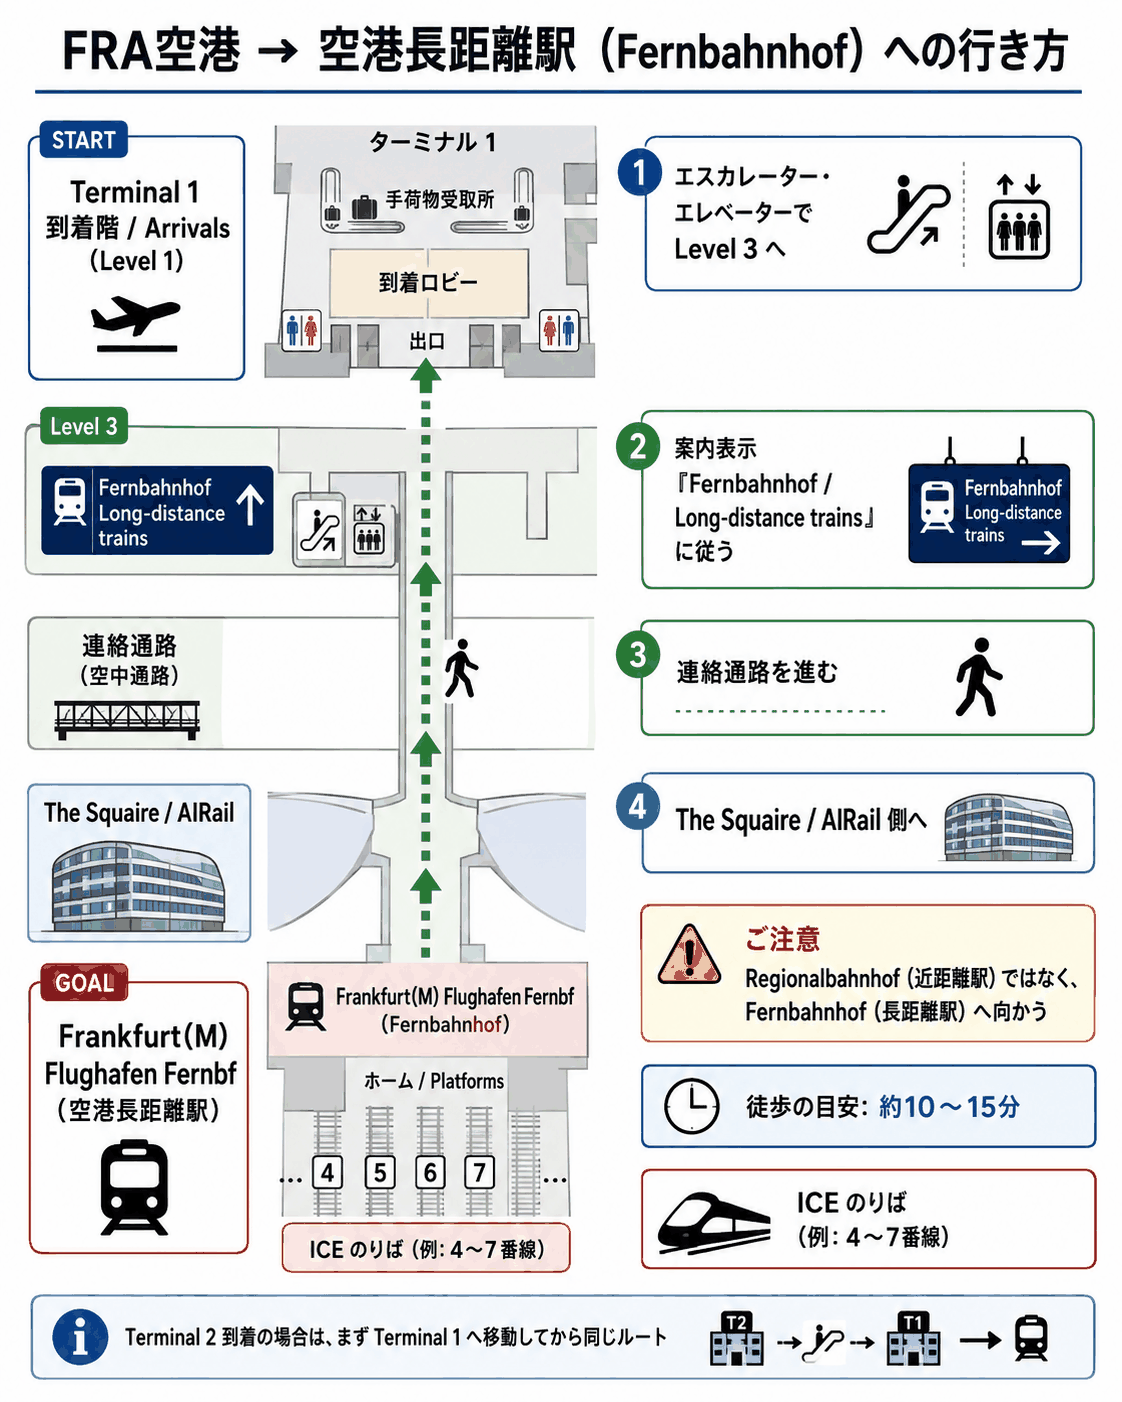
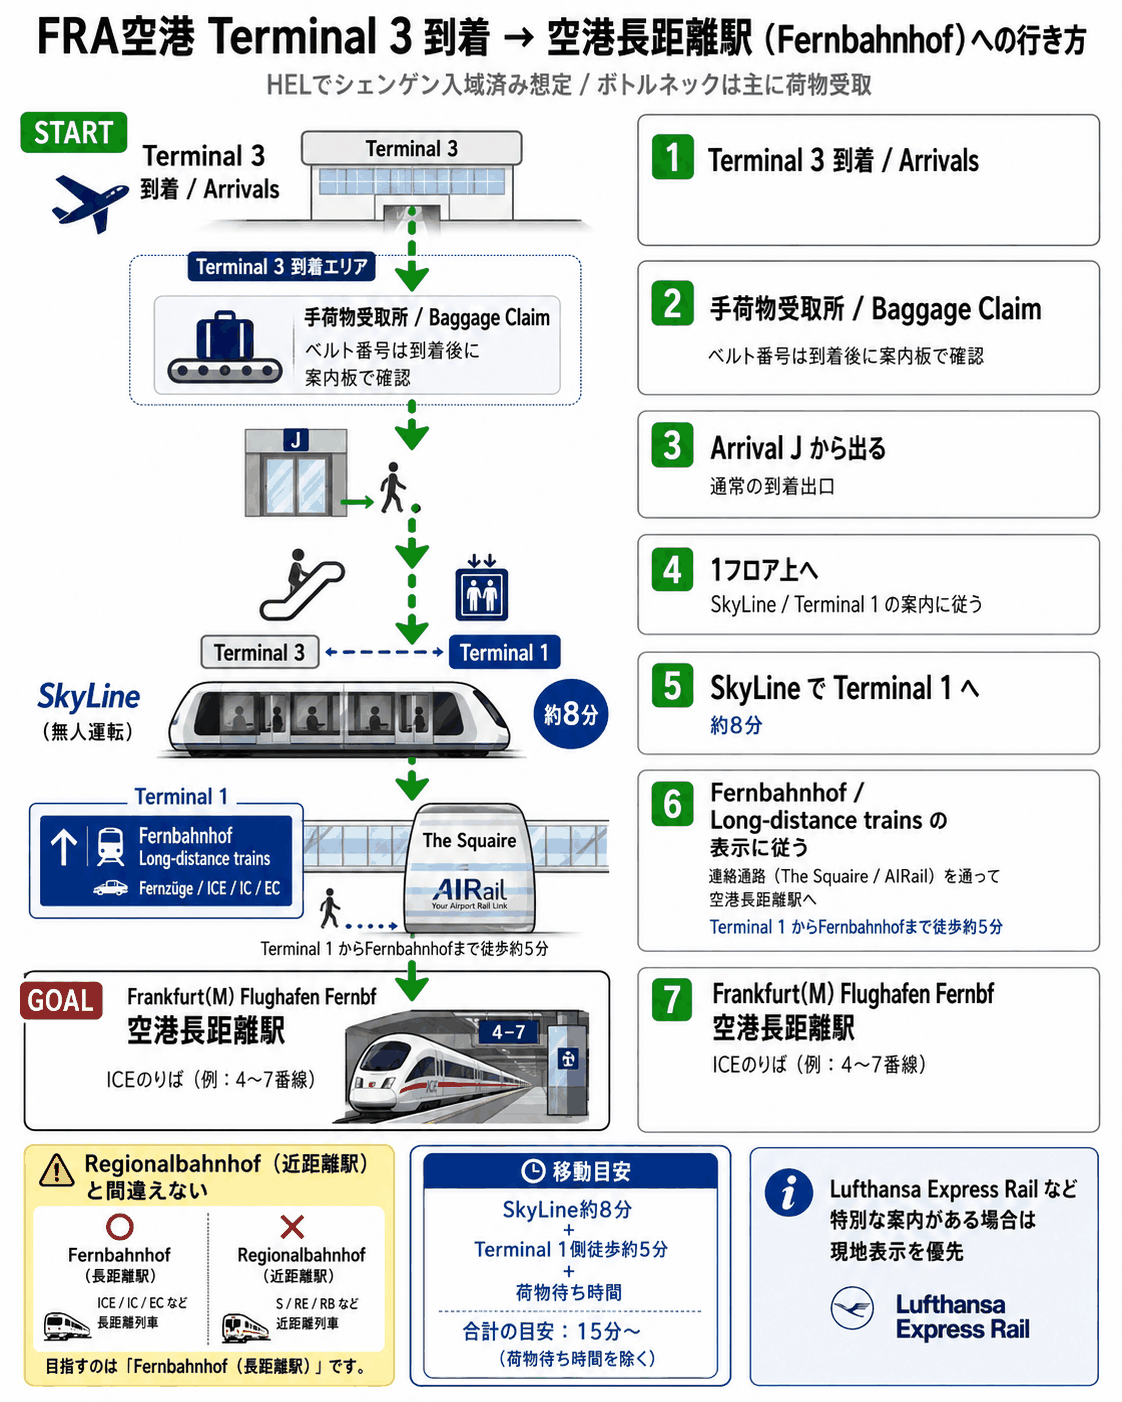
Replace the route diagram with one that starts at Terminal 3
ユーザーが図を描き直した。到着（Terminal 3）から長距離駅まで通しで1枚になった
ので、図を継ぐための言い足しが要らなくなった。

図が持つようになったこと：手荷物受取所 → Arrival J → 1つ上のフロア → SkyLine
（約8分）→ Terminal 1 → 徒歩約5分 → 長距離駅（ICEのりば 4〜7番線）。
Regionalbahnhofとの取り違えも図の中で対比されている。

- 説明は、図が言っていないことだけに絞った。SkyLineの運行時間（4:00〜23:00・
  2〜3分間隔、時間外はシャトルバス）と、原寸で開けること
- **所要は図の目安として書く。** SkyLineの約8分と合計15分〜は空港公式には出て
  いない。公式で読めたのは運行時間と間隔まで
- 「乗る便の判断」の90分にも、荷物待ちを除く15分〜を図の出どころ付きで入れた
- 前の図にあったTerminal 2の脚注は消えたので、それを打ち消す一文も落とした
- 検査の理由書きを、差し替えの経緯へ更新（図とターミナル・SkyLineの記述を対で見る
  ことは変えない）

PNGは128色で474KB（元は1.5MB）。寸法は前と同じ1122x1402。

diff --git a/202609_HumanoidSummitEurope/desk_print.html b/202609_HumanoidSummitEurope/desk_print.html
@@ -1083,7 +1083,7 @@ body.desk-copy .desk-print-trigger{display:flex;gap:5px;flex-shrink:0}
         <div class="action"><div class="row-time">9:20</div><div class="action-body"><span class="flight-mark" role="img" aria-label="フライト"></span><strong>FRA 着</strong>
           <div class="sub">荷物受取・税関</div><details open class="fold"><summary>朝食の調達</summary><div class="fold-body">入国審査はHELで完了。荷物受取・税関後、Terminal 3の<a href="https://www.frankfurt-airport.com/en/locations/b/bread-and-bite/bread-and-bite.html" target="_blank" rel="noopener">Bread &amp; Bite</a>（Area J・Level 1／6:00〜22:00）などでICE車内用のパン／サンドイッチを購入し、SkyLineでTerminal 1の長距離駅へ</div></details></div></div>
         <div class="action"><div class="row-time">10:51目安</div><div class="action-body"><span class="mode-icon mode-icon-train" role="img" aria-label="鉄道"><svg viewBox="0 0 24 24" fill="none" stroke="currentColor" stroke-width="1.7" stroke-linecap="round" stroke-linejoin="round"><rect x="5" y="3" width="14" height="13" rx="3"/><path d="M5 10h14"/><circle cx="9" cy="13" r="1"/><circle cx="15" cy="13" r="1"/><path d="M8 16l-2 4m10-4 2 4"/></svg></span><strong>Frankfurt空港 長距離駅（Fernbf）発 → Stuttgart Hbf</strong>（1時間20分）
-          <div class="sub"><strong>ICE 515</strong>・直通</div><details open class="fold"><summary>乗る便の判断</summary><div class="fold-body">9:20着から約90分あり、通常ならパン購入を含めて10:51発を目指せる。ただしFinnairはTerminal 3着で、長距離駅のあるTerminal 1へSkyLineで移る分が加わる（所要は未確認）。荷物受取等に時間がかかった場合は次の直通ICEに切り替える。乗換ありの便より直通を優先</div></details><details open class="fold"><summary>長距離駅への行き方</summary><div class="fold-body"><a class="route-map-link" href="fra_fernbahnhof_route.png" target="_blank" rel="noopener"><img class="route-map" src="fra_fernbahnhof_route.png" width="1122" height="1402" loading="eager" alt="FRA Terminal 1の到着階（Level 1）からLevel 3へ上がり、Fernbahnhof / Long-distance trainsの案内表示に従って連絡通路をThe Squaire / AIRail側へ進み、空港長距離駅のホームへ着く経路図"></a><div>FinnairはTerminal 3。長距離駅はTerminal 1側なので、無料のSkyLine（4:00〜23:00・2〜3分間隔、時間外はシャトルバス）でTerminal 1へ移ってから図の経路に入る。徒歩の目安は約10〜15分で、図をタップすると原寸で開く。案内表示は Fernbahnhof（長距離駅）で、Regionalbahnhof（近距離駅）ではない</div><div>図はTerminal 1到着から描いたもので、脚注のTerminal 2にはもう航空会社がいない（Terminal 2の便はTerminal 3へ移った）。SkyLineの所要時間は未確認。ターミナルとSkyLineは<a href="https://www.frankfurt-airport.com/en/at-the-airport/orientation.html" target="_blank" rel="noopener">空港公式</a>で確認（2026-08-30 閲覧）。<a href="https://map.frankfurt-airport.com/?poi=fernbahnhof" target="_blank" rel="noopener">構内マップ</a>は現在地から辿れる</div></div></details></div></div>
+          <div class="sub"><strong>ICE 515</strong>・直通</div><details open class="fold"><summary>乗る便の判断</summary><div class="fold-body">9:20着から約90分あり、通常ならパン購入を含めて10:51発を目指せる。ただしFinnairはTerminal 3着で、長距離駅のあるTerminal 1への移動が加わる。荷物待ちを除く目安は15分〜（図による）。荷物受取等に時間がかかった場合は次の直通ICEに切り替える。乗換ありの便より直通を優先</div></details><details open class="fold"><summary>長距離駅への行き方</summary><div class="fold-body"><a class="route-map-link" href="fra_fernbahnhof_route.png" target="_blank" rel="noopener"><img class="route-map" src="fra_fernbahnhof_route.png" width="1122" height="1402" loading="eager" alt="FRA Terminal 3の到着から手荷物受取所、Arrival J、1つ上のフロアのSkyLineでTerminal 1へ移り、Fernbahnhof / Long-distance trainsの表示に従って連絡通路を進み、空港長距離駅のホーム（4〜7番線）へ着く経路図"></a><div>FinnairはTerminal 3着。荷物を受け取ってArrival Jから出て、1つ上のフロアからSkyLine（無料・4:00〜23:00・2〜3分間隔、時間外はシャトルバス）でTerminal 1へ。あとは Fernbahnhof / Long-distance trains の表示に従う。Regionalbahnhof（近距離駅）ではない。図をタップすると原寸で開く</div><div>SkyLineの所要は空港公式に出ていない。図の約8分と合計15分〜は図の目安として読む。ターミナルの割り当てと運行時間は<a href="https://www.frankfurt-airport.com/en/at-the-airport/orientation.html" target="_blank" rel="noopener">空港公式</a>で確認（2026-08-30 閲覧）。<a href="https://map.frankfurt-airport.com/?poi=fernbahnhof" target="_blank" rel="noopener">構内マップ</a>は現在地から辿れる</div></div></details></div></div>
         <div class="action"><div class="row-time">12:11</div><div class="action-body"><span class="mode-icon mode-icon-train" role="img" aria-label="鉄道"><svg viewBox="0 0 24 24" fill="none" stroke="currentColor" stroke-width="1.7" stroke-linecap="round" stroke-linejoin="round"><rect x="5" y="3" width="14" height="13" rx="3"/><path d="M5 10h14"/><circle cx="9" cy="13" r="1"/><circle cx="15" cy="13" r="1"/><path d="M8 16l-2 4m10-4 2 4"/></svg></span><strong><a class="place" href="https://www.google.com/maps/search/?api=1&amp;query=Stuttgart+Hauptbahnhof" target="_blank" rel="noopener">Stuttgart Hbf</a> 着</strong>
           <div class="sub"><span class="mode-icon mode-icon-car" role="img" aria-label="タクシー"><svg viewBox="0 0 24 24" fill="none" stroke="currentColor" stroke-width="1.7" stroke-linecap="round" stroke-linejoin="round"><path d="M5 17h14M4 17v-4l2-5h12l2 5v4M4 17v2h2v-2m12 0v2h2v-2M6 13h12"/><circle cx="8" cy="15" r=".8"/><circle cx="16" cy="15" r=".8"/></svg></span>タクシーでホテルへ（約1.5km・€5〜10・現金払い）</div>
           <details open class="fold"><summary>駅からホテルへの行き方</summary><div class="fold-body"><strong>① タクシー（第一候補）：</strong>駅構内の案内に従い <a class="place" href="https://www.google.com/maps/search/?api=1&amp;query=Taxi+Stuttgart+Hauptbahnhof+Arnulf-Klett-Platz" target="_blank" rel="noopener">Arnulf-Klett-Platz</a> 側の乗り場から。運転手へ “Zum Maritim Hotel Stuttgart, bitte.” 必要なら住所 <strong>Seidenstraße 34</strong> を見せる。€10札を含む€20程度を用意。<br>

diff --git a/202609_HumanoidSummitEurope/index.html b/202609_HumanoidSummitEurope/index.html
@@ -202,7 +202,7 @@
         <div class="action"><div class="row-time">9:20</div><div class="action-body"><span class="flight-mark" role="img" aria-label="フライト"></span><strong>FRA 着</strong>
           <div class="sub">荷物受取・税関</div><details class="fold"><summary>朝食の調達</summary><div class="fold-body">入国審査はHELで完了。荷物受取・税関後、Terminal 3の<a href="https://www.frankfurt-airport.com/en/locations/b/bread-and-bite/bread-and-bite.html" target="_blank" rel="noopener">Bread &amp; Bite</a>（Area J・Level 1／6:00〜22:00）などでICE車内用のパン／サンドイッチを購入し、SkyLineでTerminal 1の長距離駅へ</div></details></div></div>
         <div class="action"><div class="row-time">10:51目安</div><div class="action-body"><span class="mode-icon mode-icon-train" role="img" aria-label="鉄道"><svg viewBox="0 0 24 24" fill="none" stroke="currentColor" stroke-width="1.7" stroke-linecap="round" stroke-linejoin="round"><rect x="5" y="3" width="14" height="13" rx="3"/><path d="M5 10h14"/><circle cx="9" cy="13" r="1"/><circle cx="15" cy="13" r="1"/><path d="M8 16l-2 4m10-4 2 4"/></svg></span><strong>Frankfurt空港 長距離駅（Fernbf）発 → Stuttgart Hbf</strong>（1時間20分）
-          <div class="sub"><strong>ICE 515</strong>・直通</div><details class="fold"><summary>乗る便の判断</summary><div class="fold-body">9:20着から約90分あり、通常ならパン購入を含めて10:51発を目指せる。ただしFinnairはTerminal 3着で、長距離駅のあるTerminal 1へSkyLineで移る分が加わる（所要は未確認）。荷物受取等に時間がかかった場合は次の直通ICEに切り替える。乗換ありの便より直通を優先</div></details><details class="fold"><summary>長距離駅への行き方</summary><div class="fold-body"><a class="route-map-link" href="fra_fernbahnhof_route.png" target="_blank" rel="noopener"><img class="route-map" src="fra_fernbahnhof_route.png" width="1122" height="1402" loading="eager" alt="FRA Terminal 1の到着階（Level 1）からLevel 3へ上がり、Fernbahnhof / Long-distance trainsの案内表示に従って連絡通路をThe Squaire / AIRail側へ進み、空港長距離駅のホームへ着く経路図"></a><div>FinnairはTerminal 3。長距離駅はTerminal 1側なので、無料のSkyLine（4:00〜23:00・2〜3分間隔、時間外はシャトルバス）でTerminal 1へ移ってから図の経路に入る。徒歩の目安は約10〜15分で、図をタップすると原寸で開く。案内表示は Fernbahnhof（長距離駅）で、Regionalbahnhof（近距離駅）ではない</div><div>図はTerminal 1到着から描いたもので、脚注のTerminal 2にはもう航空会社がいない（Terminal 2の便はTerminal 3へ移った）。SkyLineの所要時間は未確認。ターミナルとSkyLineは<a href="https://www.frankfurt-airport.com/en/at-the-airport/orientation.html" target="_blank" rel="noopener">空港公式</a>で確認（2026-08-30 閲覧）。<a href="https://map.frankfurt-airport.com/?poi=fernbahnhof" target="_blank" rel="noopener">構内マップ</a>は現在地から辿れる</div></div></details></div></div>
+          <div class="sub"><strong>ICE 515</strong>・直通</div><details class="fold"><summary>乗る便の判断</summary><div class="fold-body">9:20着から約90分あり、通常ならパン購入を含めて10:51発を目指せる。ただしFinnairはTerminal 3着で、長距離駅のあるTerminal 1への移動が加わる。荷物待ちを除く目安は15分〜（図による）。荷物受取等に時間がかかった場合は次の直通ICEに切り替える。乗換ありの便より直通を優先</div></details><details class="fold"><summary>長距離駅への行き方</summary><div class="fold-body"><a class="route-map-link" href="fra_fernbahnhof_route.png" target="_blank" rel="noopener"><img class="route-map" src="fra_fernbahnhof_route.png" width="1122" height="1402" loading="eager" alt="FRA Terminal 3の到着から手荷物受取所、Arrival J、1つ上のフロアのSkyLineでTerminal 1へ移り、Fernbahnhof / Long-distance trainsの表示に従って連絡通路を進み、空港長距離駅のホーム（4〜7番線）へ着く経路図"></a><div>FinnairはTerminal 3着。荷物を受け取ってArrival Jから出て、1つ上のフロアからSkyLine（無料・4:00〜23:00・2〜3分間隔、時間外はシャトルバス）でTerminal 1へ。あとは Fernbahnhof / Long-distance trains の表示に従う。Regionalbahnhof（近距離駅）ではない。図をタップすると原寸で開く</div><div>SkyLineの所要は空港公式に出ていない。図の約8分と合計15分〜は図の目安として読む。ターミナルの割り当てと運行時間は<a href="https://www.frankfurt-airport.com/en/at-the-airport/orientation.html" target="_blank" rel="noopener">空港公式</a>で確認（2026-08-30 閲覧）。<a href="https://map.frankfurt-airport.com/?poi=fernbahnhof" target="_blank" rel="noopener">構内マップ</a>は現在地から辿れる</div></div></details></div></div>
         <div class="action"><div class="row-time">12:11</div><div class="action-body"><span class="mode-icon mode-icon-train" role="img" aria-label="鉄道"><svg viewBox="0 0 24 24" fill="none" stroke="currentColor" stroke-width="1.7" stroke-linecap="round" stroke-linejoin="round"><rect x="5" y="3" width="14" height="13" rx="3"/><path d="M5 10h14"/><circle cx="9" cy="13" r="1"/><circle cx="15" cy="13" r="1"/><path d="M8 16l-2 4m10-4 2 4"/></svg></span><strong><a class="place" href="https://www.google.com/maps/search/?api=1&amp;query=Stuttgart+Hauptbahnhof" target="_blank" rel="noopener">Stuttgart Hbf</a> 着</strong>
           <div class="sub"><span class="mode-icon mode-icon-car" role="img" aria-label="タクシー"><svg viewBox="0 0 24 24" fill="none" stroke="currentColor" stroke-width="1.7" stroke-linecap="round" stroke-linejoin="round"><path d="M5 17h14M4 17v-4l2-5h12l2 5v4M4 17v2h2v-2m12 0v2h2v-2M6 13h12"/><circle cx="8" cy="15" r=".8"/><circle cx="16" cy="15" r=".8"/></svg></span>タクシーでホテルへ（約1.5km・€5〜10・現金払い）</div>
           <details class="fold"><summary>駅からホテルへの行き方</summary><div class="fold-body"><strong>① タクシー（第一候補）：</strong>駅構内の案内に従い <a class="place" href="https://www.google.com/maps/search/?api=1&amp;query=Taxi+Stuttgart+Hauptbahnhof+Arnulf-Klett-Platz" target="_blank" rel="noopener">Arnulf-Klett-Platz</a> 側の乗り場から。運転手へ “Zum Maritim Hotel Stuttgart, bitte.” 必要なら住所 <strong>Seidenstraße 34</strong> を見せる。€10札を含む€20程度を用意。<br>

diff --git a/202609_HumanoidSummitEurope/source.html b/202609_HumanoidSummitEurope/source.html
@@ -411,7 +411,7 @@ h3{font-size:var(--f3);margin:14px 0 6px;color:var(--tx2)}
         <tr><td class="t">9:20</td><td><span class="et t-fly">✈</span><strong>FRA 着</strong>
           <div class="sub">荷物受取・税関</div><span class="note">入国審査はHELで完了。荷物受取・税関後、Terminal 3の<a href="https://www.frankfurt-airport.com/en/locations/b/bread-and-bite/bread-and-bite.html" target="_blank" rel="noopener">Bread &amp; Bite</a>（Area J・Level 1／6:00〜22:00）などでICE車内用のパン／サンドイッチを購入し、SkyLineでTerminal 1の長距離駅へ</span></td></tr>
         <tr><td class="t">10:51目安</td><td><span class="et t-move">🚆</span><strong>Frankfurt空港 長距離駅（Fernbf）発 → Stuttgart Hbf</strong>（1時間20分）
-          <div class="sub"><strong>ICE 515</strong>・直通</div><span class="note">9:20着から約90分あり、通常ならパン購入を含めて10:51発を目指せる。ただしFinnairはTerminal 3着で、長距離駅のあるTerminal 1へSkyLineで移る分が加わる（所要は未確認）。荷物受取等に時間がかかった場合は次の直通ICEに切り替える。乗換ありの便より直通を優先</span><details class="fold"><summary>長距離駅への行き方</summary><div class="fold-body"><a class="route-map-link" href="fra_fernbahnhof_route.png" target="_blank" rel="noopener"><img class="route-map" src="fra_fernbahnhof_route.png" width="1122" height="1402" loading="eager" alt="FRA Terminal 1の到着階（Level 1）からLevel 3へ上がり、Fernbahnhof / Long-distance trainsの案内表示に従って連絡通路をThe Squaire / AIRail側へ進み、空港長距離駅のホームへ着く経路図"></a><div>FinnairはTerminal 3。長距離駅はTerminal 1側なので、無料のSkyLine（4:00〜23:00・2〜3分間隔、時間外はシャトルバス）でTerminal 1へ移ってから図の経路に入る。徒歩の目安は約10〜15分で、図をタップすると原寸で開く。案内表示は Fernbahnhof（長距離駅）で、Regionalbahnhof（近距離駅）ではない</div><div>図はTerminal 1到着から描いたもので、脚注のTerminal 2にはもう航空会社がいない（Terminal 2の便はTerminal 3へ移った）。SkyLineの所要時間は未確認。ターミナルとSkyLineは<a href="https://www.frankfurt-airport.com/en/at-the-airport/orientation.html" target="_blank" rel="noopener">空港公式</a>で確認（2026-08-30 閲覧）。<a href="https://map.frankfurt-airport.com/?poi=fernbahnhof" target="_blank" rel="noopener">構内マップ</a>は現在地から辿れる</div></div></details></td></tr>
+          <div class="sub"><strong>ICE 515</strong>・直通</div><span class="note">9:20着から約90分あり、通常ならパン購入を含めて10:51発を目指せる。ただしFinnairはTerminal 3着で、長距離駅のあるTerminal 1への移動が加わる。荷物待ちを除く目安は15分〜（図による）。荷物受取等に時間がかかった場合は次の直通ICEに切り替える。乗換ありの便より直通を優先</span><details class="fold"><summary>長距離駅への行き方</summary><div class="fold-body"><a class="route-map-link" href="fra_fernbahnhof_route.png" target="_blank" rel="noopener"><img class="route-map" src="fra_fernbahnhof_route.png" width="1122" height="1402" loading="eager" alt="FRA Terminal 3の到着から手荷物受取所、Arrival J、1つ上のフロアのSkyLineでTerminal 1へ移り、Fernbahnhof / Long-distance trainsの表示に従って連絡通路を進み、空港長距離駅のホーム（4〜7番線）へ着く経路図"></a><div>FinnairはTerminal 3着。荷物を受け取ってArrival Jから出て、1つ上のフロアからSkyLine（無料・4:00〜23:00・2〜3分間隔、時間外はシャトルバス）でTerminal 1へ。あとは Fernbahnhof / Long-distance trains の表示に従う。Regionalbahnhof（近距離駅）ではない。図をタップすると原寸で開く</div><div>SkyLineの所要は空港公式に出ていない。図の約8分と合計15分〜は図の目安として読む。ターミナルの割り当てと運行時間は<a href="https://www.frankfurt-airport.com/en/at-the-airport/orientation.html" target="_blank" rel="noopener">空港公式</a>で確認（2026-08-30 閲覧）。<a href="https://map.frankfurt-airport.com/?poi=fernbahnhof" target="_blank" rel="noopener">構内マップ</a>は現在地から辿れる</div></div></details></td></tr>
         <tr><td class="t">12:11</td><td><span class="et t-move">🚆</span><strong>Stuttgart Hbf 着</strong> <a href="https://www.google.com/maps/search/?api=1&amp;query=Stuttgart+Hauptbahnhof" target="_blank" rel="noopener">地図</a>
           <div class="sub"><span class="et t-taxi">🚕</span>タクシーでホテルへ（約1.5km・€5〜10・現金払い）</div>
           <div class="note"><strong>① タクシー（第一候補）：</strong>駅構内の案内に従い Arnulf-Klett-Platz 側の乗り場 <a href="https://www.google.com/maps/search/?api=1&amp;query=Taxi+Stuttgart+Hauptbahnhof+Arnulf-Klett-Platz" target="_blank" rel="noopener">（地図）</a> から。運転手へ “Zum Maritim Hotel Stuttgart, bitte.” 必要なら住所 <strong>Seidenstraße 34</strong> を見せる。€10札を含む€20程度を用意。<br>
